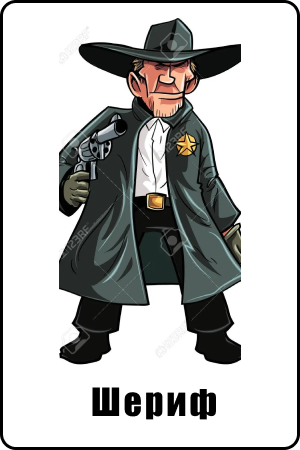
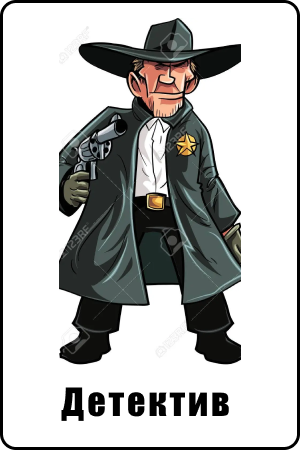
bugfixes

Changed region(s): [[0.18, 0.84, 0.78, 0.9333]]

diff --git a/src/main/java/com/example/mafiabot/service/impl/GameServiceImpl.java b/src/main/java/com/example/mafiabot/service/impl/GameServiceImpl.java
@@ -112,6 +112,11 @@ public class GameServiceImpl implements GameService {
             return goodNews;
         }
 
+        // любовница блокирует
+        boolean mafiaIsNotBlocked = true;
+        boolean maniacIsNotBlocked = true;
+        boolean doctorIsNotBlocked = true;
+
         List<Game> games = gamePlay.get(id);
         Game game = games.get(games.size() - 1);
         List<Player> deadList = new ArrayList<>();
@@ -123,6 +128,7 @@ public class GameServiceImpl implements GameService {
         if (game.getChoseWhore() != null) {
             // если любовница выбирает ночным клиентом маньяка
             if (game.getChoseWhore().getRole().equals(Role.MANIAC)) {
+                maniacIsNotBlocked = false;
                 // если доктор выбрал любовныцу то она остается в игре и сообщается что доктор ее спас
                 if (game.getChoseDoctor().getRole().equals(Role.WHORE)) {
                     doctorSaveWhoreFromManiac = true;
@@ -133,53 +139,44 @@ public class GameServiceImpl implements GameService {
                     whoreIsDead = true;
                 }
             }
+            if (game.getChoseWhore().getRole().equals(Role.MAFIA)) {
+                long numberOfMafia = playerService.getAllAlivePlayers(id).stream()
+                        .filter(player -> !player.getRole().isCivilian())
+                        .count();
+                if (numberOfMafia <= 1) {
+                    mafiaIsNotBlocked = false;
+                }
+            }
+            if (game.getChoseWhore().getRole().equals(Role.DOCTOR)) {
+                doctorIsNotBlocked = false;
+            }
         }
 
         /*** Мафия выбирает */
-        if (game.getChoseMafia() != null) {
-
-            // если любовница выбирает ночным клиентом мафию и в игре 1 мафия то мафия промахивается
-            boolean mafiaBlocked = (game.getChoseWhore() != null) &&
-                    (!game.getChoseWhore().getRole().isCivilian()) &&
-                    playerService.getAllAlivePlayers(id).stream()
-                            .filter(p -> !p.getRole().isCivilian()).count() == 1;
-
+        if (game.getChoseMafia() != null && mafiaIsNotBlocked) {
             // мафия убивает игрока если не блокирована любовницей
-            if (!mafiaBlocked) {
-                if (game.getChoseMafia().getRole().equals(Role.WHORE)) {
-                    deadList.add(game.getChoseWhore());
-                    whoreIsDead = true;
-                }
-                deadList.add(game.getChoseMafia());
+            // если мафия убивает любовницу, то так же умирает игрок, который был у любовницы
+            if (game.getChoseMafia().getRole().equals(Role.WHORE)) {
+                deadList.add(game.getChoseWhore());
+                whoreIsDead = true;
             }
+            deadList.add(game.getChoseMafia());
         }
 
         /*** Маньяк выбирает */
-        if (game.getChoseManiac() != null) {
+        if (game.getChoseManiac() != null && maniacIsNotBlocked) {
             // маньяк убивает если не выбран любовницей или не выбран мафией
-            boolean maniacCanKill = true;
-
-            if (game.getChoseWhore().getRole().equals(Role.MANIAC)) {
-                maniacCanKill = false;
-            }
-            if (game.getChoseMafia().getRole().equals(Role.MANIAC) &&
-                    playerService.isMafiaWasBlockedByWhore(id)) {
-                maniacCanKill = false;
-            }
-            if (maniacCanKill) {
+            if (!(game.getChoseMafia().getRole().equals(Role.MANIAC) && mafiaIsNotBlocked)) {
                 deadList.add(game.getChoseManiac());
             }
         }
 
         /*** Доктор выбирает */
-        if (game.getChoseDoctor() != null && !game.getChoseWhore().getRole().equals(Role.DOCTOR)) {
+        if (game.getChoseDoctor() != null && doctorIsNotBlocked) {
             if (game.getChoseDoctor().getRole().equals(Role.WHORE) && !doctorSaveWhoreFromManiac) {
                 deadList.remove(game.getChoseDoctor());
             }
-
-            if (!game.getChoseWhore().getRole().equals(Role.DOCTOR)) {
-                deadList.remove(game.getChoseDoctor());
-            }
+            deadList.remove(game.getChoseDoctor());
         }
 
         if (!whoreIsDead) {

diff --git a/src/main/java/com/example/mafiabot/controller/CommandController.java b/src/main/java/com/example/mafiabot/controller/CommandController.java
@@ -54,7 +54,7 @@ public class CommandController {
         final String infoText = "Очередность действий ночью:\n\n" +
                 "1. «Любовница» выбирает одного из игроков, кого она забирает к себе на ночь. Замораживает способность выбранного игрока и дает имунитет на дневном голосовании. Если был выбран маньяк, то любовница погибает \uD83D\uDC80\n\n" +
                 "2. «Мафия» выбирают себе жертву на ночную казнь и производят ее (если в игре осталась одна мафия и любовница выбрала этого игрока, то ведущий игнорирует выбор мафии)\n\n" +
-                "3. «Дон» выбирает одного из игроков и проверяет его (если действия персонажа заморожены ему дают знак \uD83D\uDE45\u200D♂, если Дон угадывает шерифа, то \uD83D\uDC4D\n\n" +
+                "3. «Дон» выбирает одного из игроков и проверяет его (если действия персонажа заморожены ему дают знак \uD83D\uDE45\u200D♂, если Дон угадывает детектива, то \uD83D\uDC4D\n\n" +
                 "4. «Маньяк» выбирает одного из игроков и производит ночную казнь (если любовница выбрала маньяка ведущий игнорирует выбор маньяка)\n\n" +
                 "5. «Детектив» выбирает одного из подозрительных игроков и проверяет его (если роль детектива заморожена, то дают знак \uD83D\uDE45\u200D♂, если детектив указал на мафию, то знак \uD83D\uDC4E а если на мирного, то \uD83D\uDC4D)\n\n" +
                 "6. «Доктор» выбирает одного из игроков, кого, по его мнению, он хочет спасти (если любовница выбрала доктора, то ведущий игнорирует его выбор) в случае если любовница выбирает на ночь доктора, мафия или маньяк убивают ночью любовницу, а доктор лечит любовницу игру покидают и доктор и любовница, так как способность доктора к ночному лечению заморожена.\n\n" +

diff --git a/src/main/java/com/example/mafiabot/controller/MessageController.java b/src/main/java/com/example/mafiabot/controller/MessageController.java
@@ -472,7 +472,7 @@ public class MessageController {
     private Object chooseOfMafia(Update update) {
         final Long chatId = update.getMessage().getChatId();
         final String text = "Мафия сделала свой выбор\n--------------------\n\n" +
-                "Просыпается Дон мафии и пытается вычислить шерифа \uD83D\uDD2E\n\n";
+                "Просыпается Дон мафии и пытается вычислить детектива \uD83D\uDD2E\n\n";
 
         Player player = playerService.getPlayerByName(chatId, update.getMessage().getText());
 
@@ -580,7 +580,7 @@ public class MessageController {
     private Object chooseOfDoctor(Update update) {
         final Message message = update.getMessage();
         final String answer = "\n--------------------\n\n" +
-                "Просыпается шериф и выбирает кого проверить \uD83C\uDFAF\n\n";
+                "Просыпается детектив и выбирает кого проверить \uD83C\uDFAF\n\n";
         playerService.setState(message.getChatId(), State.COP_MOVE);
 
         if (message.getText().equals(NEXT_PLAYER)) {
@@ -613,7 +613,7 @@ public class MessageController {
         else {
             return SendMessage.builder()
                     .chatId(message.getChatId())
-                    .text(answer + "Шерифа в игре нет\nМотай дальше ⬇")
+                    .text(answer + "Детектива в игре нет\nМотай дальше ⬇")
                     .replyMarkup(Menu.getSkipKeyboard())
                     .build();
         }
@@ -637,7 +637,7 @@ public class MessageController {
         if (message.getText().equals(NEXT_PLAYER)) {
             return SendMessage.builder()
                     .chatId(message.getChatId())
-                    .text("Шериф пропустил свой ход" + text)
+                    .text("Детектив пропустил свой ход" + text)
                     .replyMarkup(replyKeyboard)
                     .build();
         }
@@ -651,7 +651,7 @@ public class MessageController {
 
             return SendMessage.builder()
                     .chatId(message.getChatId())
-                    .text("Шериф получил ответ: " + answer + text)
+                    .text("Детектив получил ответ: " + answer + text)
                     .replyMarkup(replyKeyboard)
                     .build();
         }

diff --git a/src/main/java/com/example/mafiabot/service/impl/PlayerServiceImpl.java b/src/main/java/com/example/mafiabot/service/impl/PlayerServiceImpl.java
@@ -48,7 +48,7 @@ public class PlayerServiceImpl implements PlayerService {
         } else if (numberOfPlayers <= 10) {
             roles.add(Role.MAFIA);
             roles.add(Role.MAFIA);
-            roles.add(getRandomRole(Role.DON, Role.MANIAC));
+            roles.add(getDonOrManiac());
             roles.add(Role.WHORE);
             roles.add(Role.DOCTOR);
             roles.add(Role.COP);
@@ -236,9 +236,7 @@ public class PlayerServiceImpl implements PlayerService {
         return allPlayers.get(id) != null;
     }
 
-    private Role getRandomRole(Role... role) {
-        List<Role> roles = Arrays.stream(role).toList();
-        Collections.shuffle(roles);
-        return roles.get(0);
+    private Role getDonOrManiac() {
+        return new Random().nextBoolean() ? Role.DON : Role.MANIAC;
     }
 }

diff --git a/src/main/java/com/example/mafiabot/Str.java b/src/main/java/com/example/mafiabot/Str.java
@@ -6,7 +6,7 @@ public class Str {
     public static final String STR_MANIAC = "\uD83E\uDDB9\u200D Маньяк";
     public static final String STR_DOCTOR = "\uD83E\uDDD1\u200D⚕ Доктор";
     public static final String STR_WHORE = "\uD83D\uDC71\u200D♀ Любовница";
-    public static final String STR_COP = "\uD83D\uDC6E\u200D Шериф";
+    public static final String STR_COP = "\uD83D\uDC6E\u200D Детектив";
     public static final String STR_CIVILIAN = "\uD83D\uDC68 Мирный житель";
     public static final String STR_EMPTY = "Нет роли";
 }
